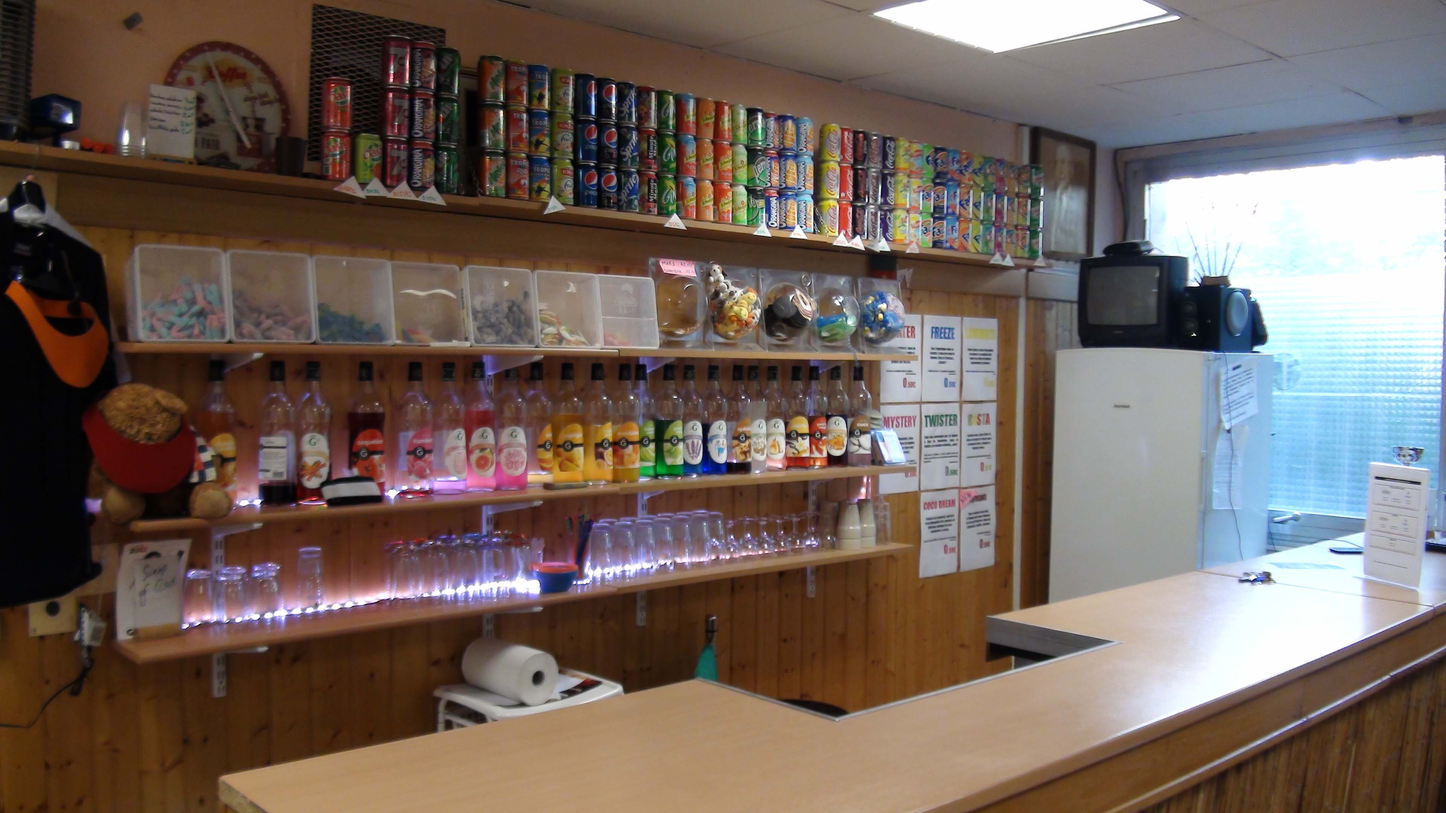
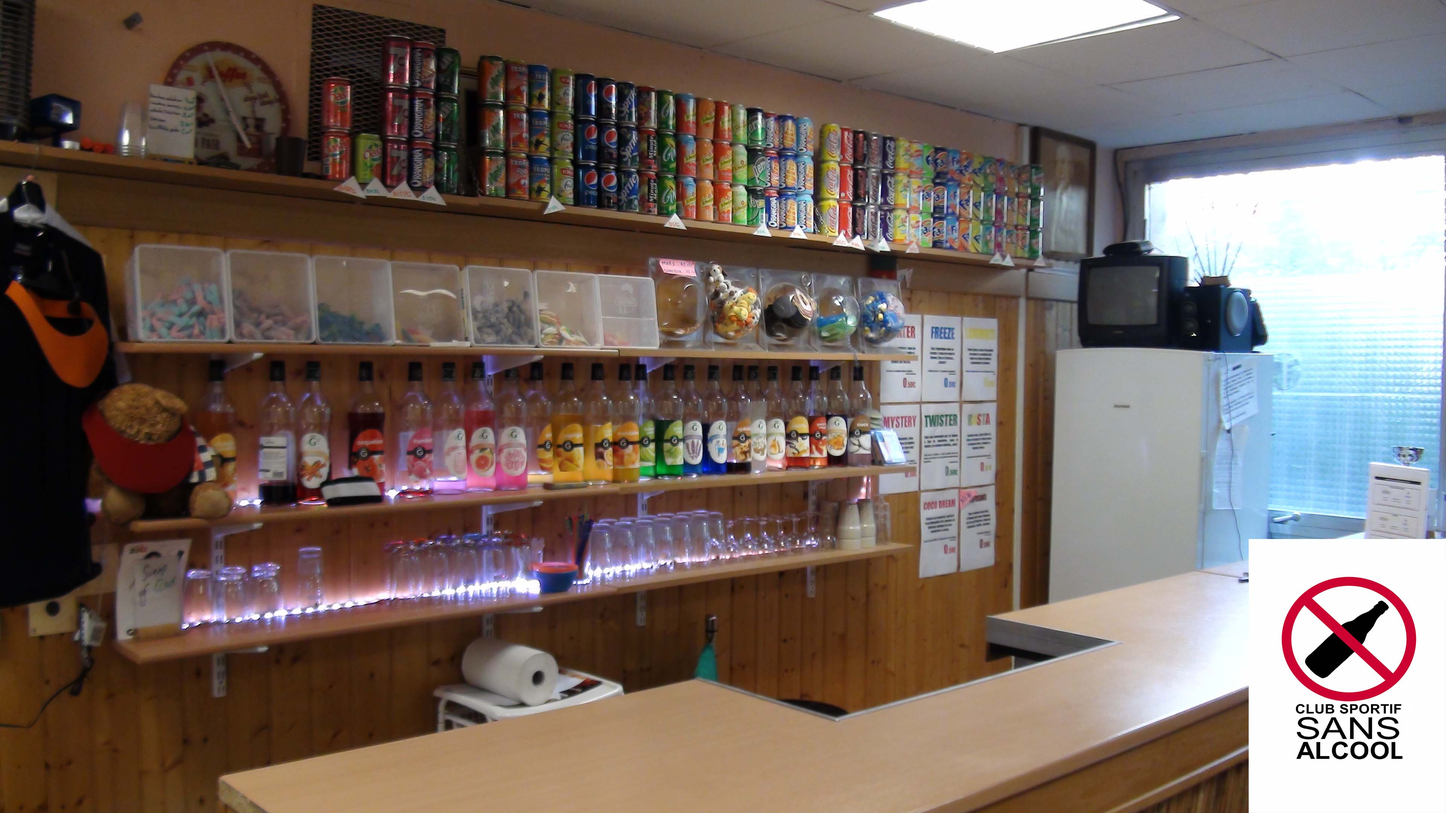
modif photo club house

Changed region(s): [[0.8438, 0.6514, 1.0, 1.0]]

diff --git a/index.html b/index.html
@@ -194,10 +194,11 @@ and open the template in the editor.
                         <!--Voir pour insérer des photos-->
                 </ul>
             <h3>Le club house</h3>
-            <img src="img/clubhouse.jpg" alt="clubhouse" style="float: right; margin: 0 0 10px 10px;">
+            <img src="img/clubhouse.gif" alt="clubhouse" style="float: right; margin: 0 0 10px 10px;">
             <p>Un espace de 40M² est à disposition pour prendre une collation et échanger entre tireurs. Nous proposons de la petite
             restauration et une large gamme de sirops et de boissons fraîches. L'OSML SECTION TIR est labellisé "Club Sportif Sans Alcool"</p>
-                        <!--Voir pour insérer des photos et logo "Sans alcool"-->
+                        
+            <!--Voir pour insérer des photos et logo "Sans alcool"-->
             <h3>L'espace détente</h3>
         </section>
 
